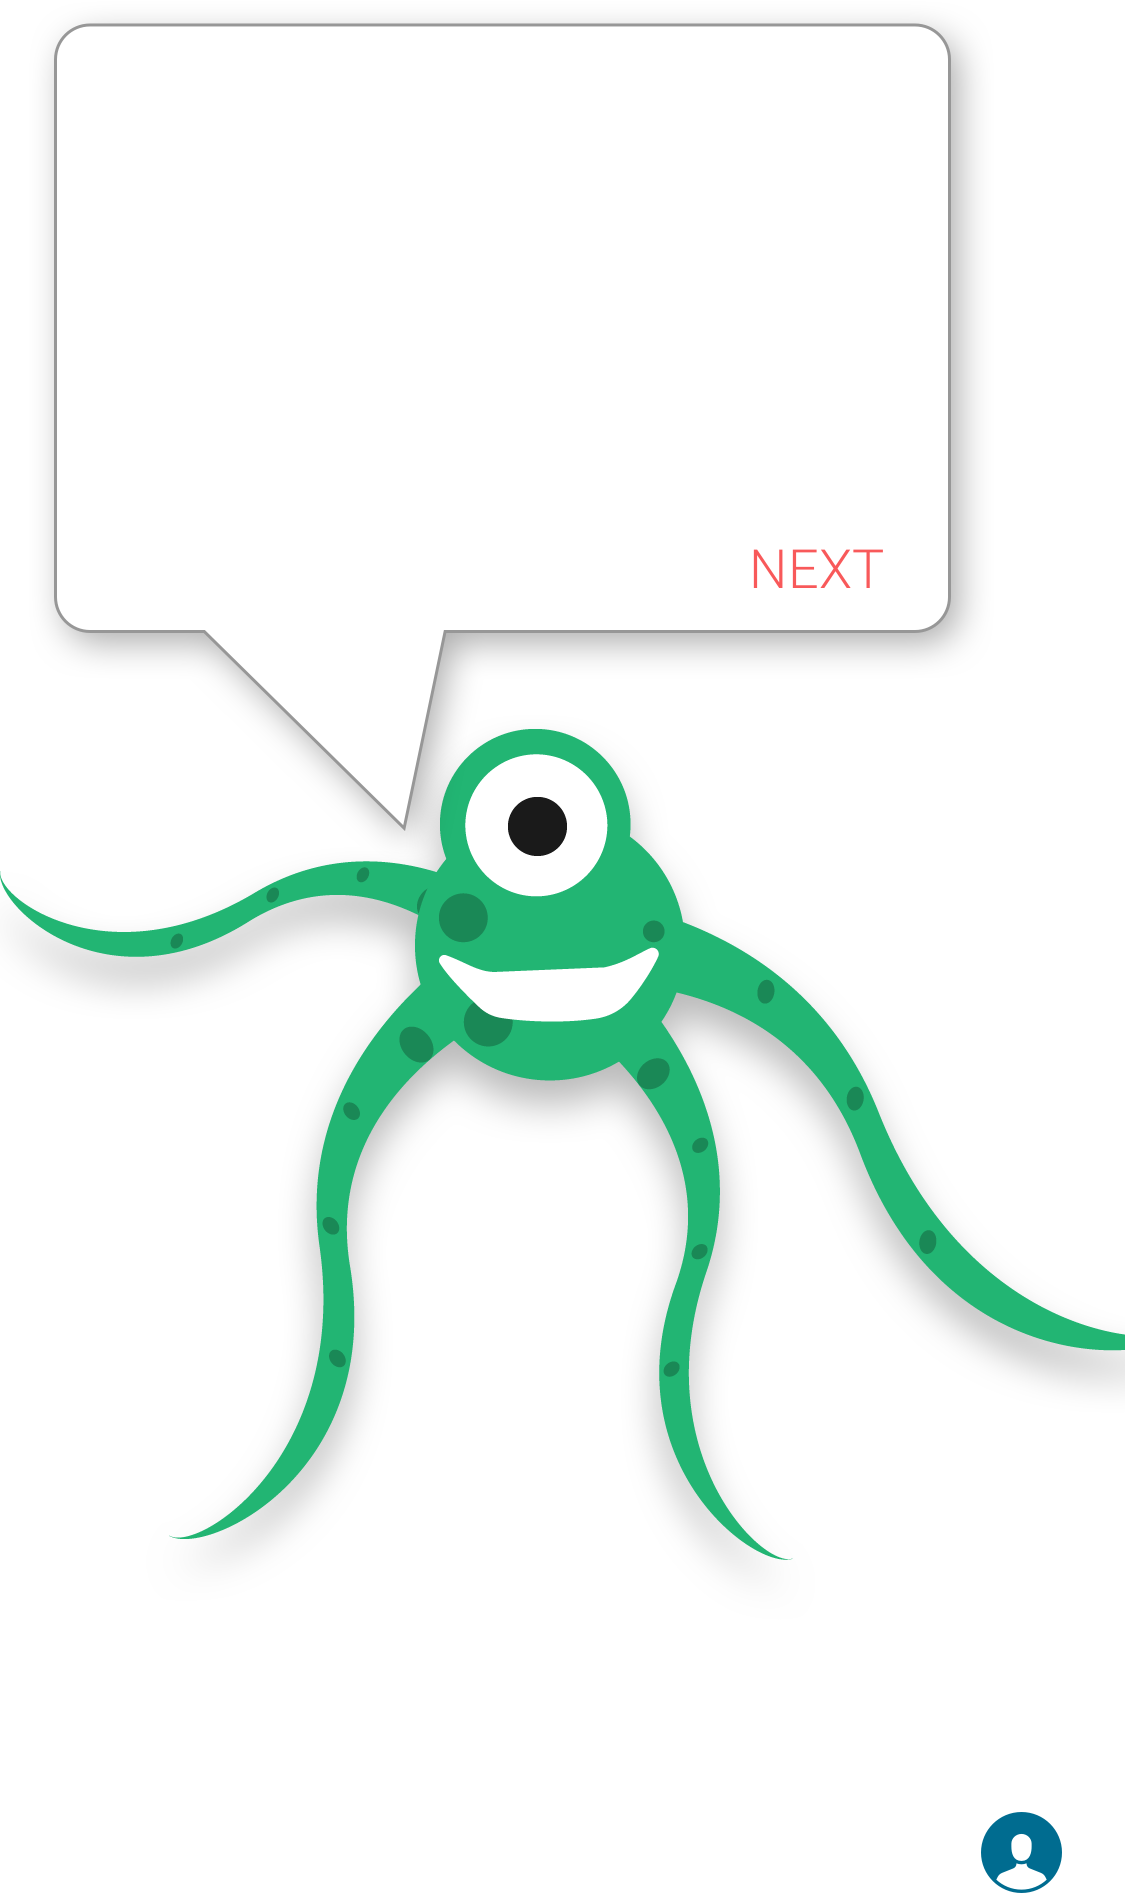
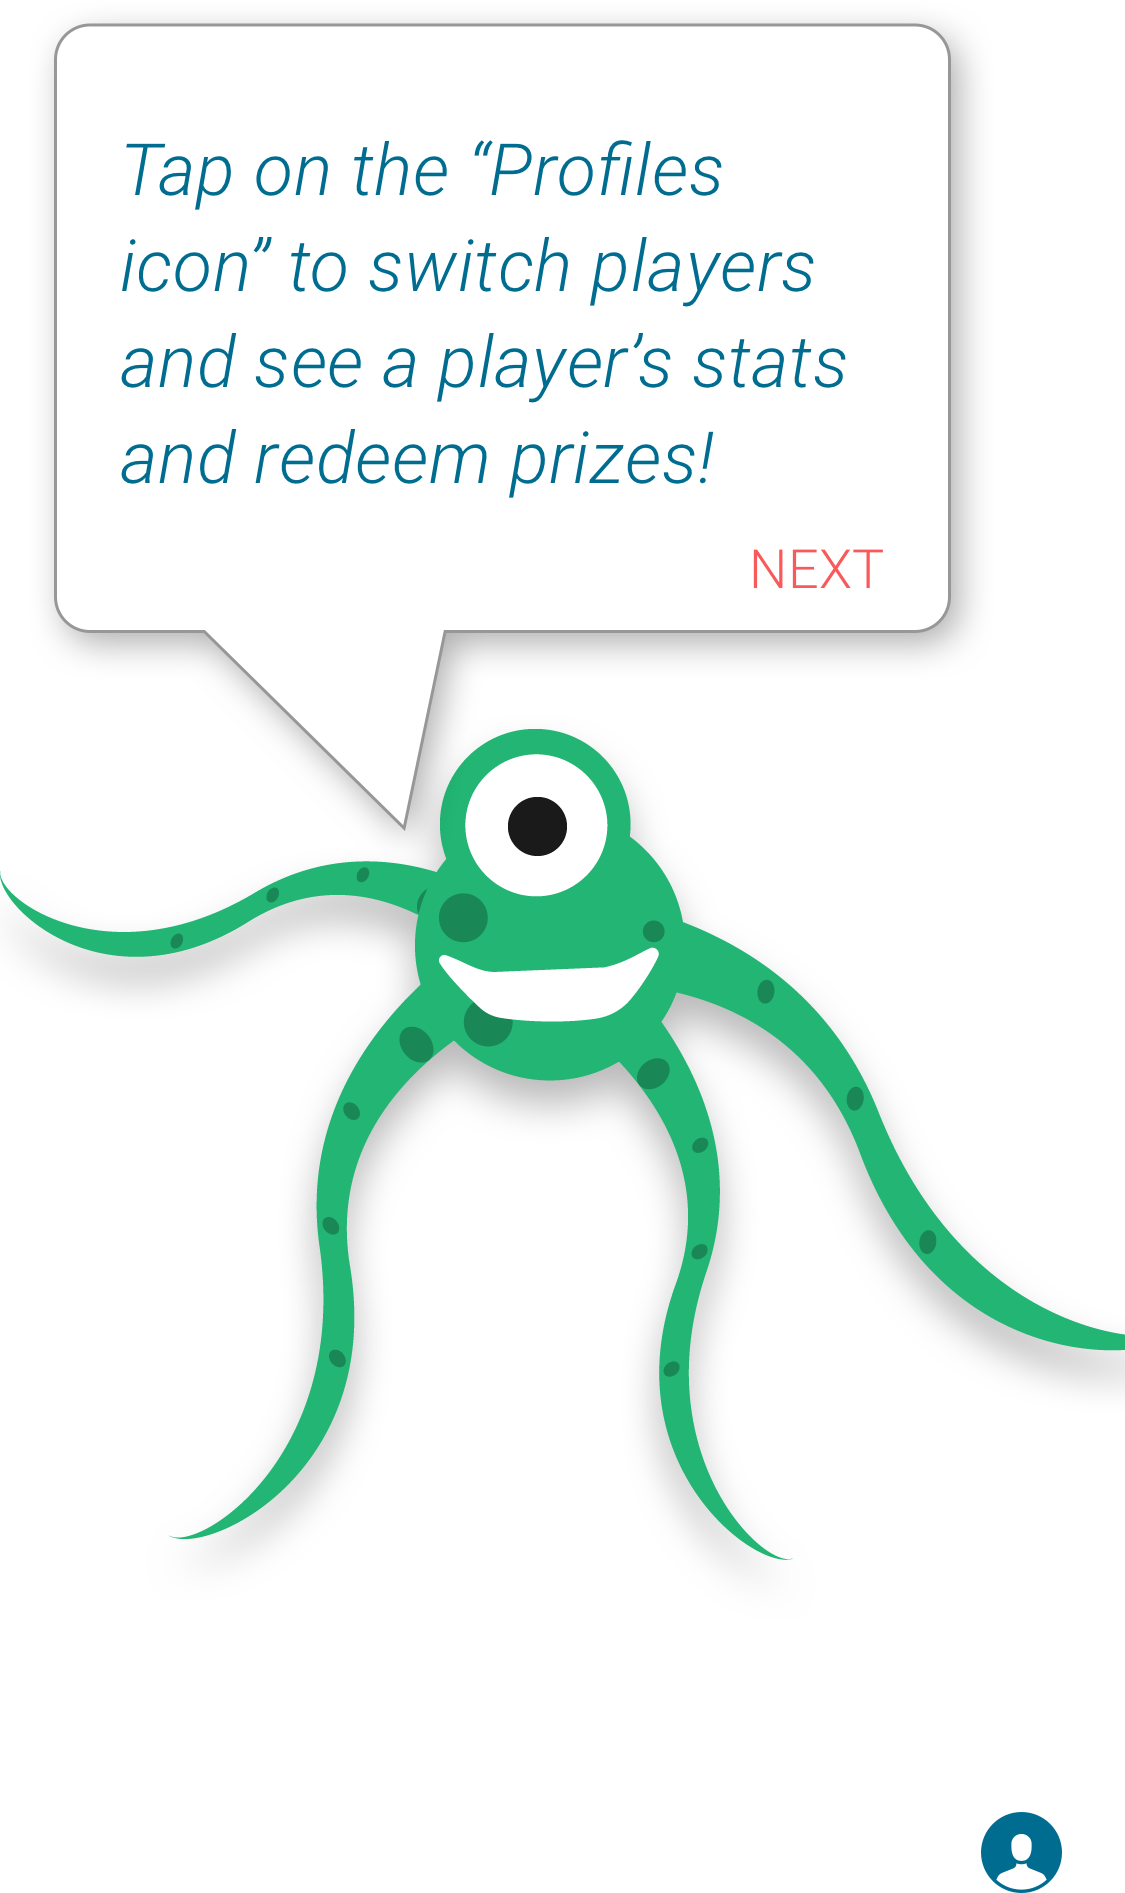
onboarding
onboarding

diff --git a/index.html b/index.html
@@ -221,5 +221,29 @@
 				<li class = "right"><img class = "link slideup" page-load = "profiles" src = "images/Profile.svg"></li>
 			</ul>
 		</div>
+		<div id = "player-onboard3" class = "sc">
+			<div class="onboard onthree">
+			<div class="link slideup nextthree" page-load="player-onboard4"></div>
+				<img src="images/onboard_3.png" alt="Green Monster onboarding">
+			</div>
+			<div class="overlay"></div>
+			<ul class = "navbar">
+				<li class = "left"><img src = "images/location.svg"></li>
+				<li class = "center"><img class = "link slideup" page-load = "adventure-list" src = "images/AAbtn.svg"></li>
+				<li class = "right"><img class = "link slideup" page-load = "profiles" src = "images/Profile.svg"></li>
+			</ul>
+		</div>
+		<div id = "player-onboard4" class = "sc">
+			<div class="onboard onfour">
+			<div class="link slideup nextfour" page-load="player-onboard4"></div>
+				<img src="images/onboard_4.png" alt="Green Monster onboarding">
+			</div>
+			<div class="overlay"></div>
+			<ul class = "navbar">
+				<li class = "left"><img src = "images/location.svg"></li>
+				<li class = "center"><img class = "link slideup" page-load = "adventure-list" src = "images/AAbtn.svg"></li>
+				<li class = "right"><img class = "link slideup" page-load = "profiles" src = "images/Profile.svg"></li>
+			</ul>
+		</div>
 	</body>
 </html>

diff --git a/style-card.css b/style-card.css
@@ -103,7 +103,7 @@ body{
 	background: linear-gradient(131.49deg, rgba(255,255,255,0.72) 0%, #FFFCF8 100%);
 }
 
-#player-onboard, #player-onboard2 {
+#player-onboard, #player-onboard2, #player-onboard3, #player-onboard4 {
 	bottom: 77px;
 	background-color: rgba(0,0,0,0.3);
 	-moz-animation: fadein 2s; /* Firefox */
@@ -250,7 +250,25 @@ h5 {
     z-index: 120;
 }
 
+.nextthree {
+    position: absolute;
+    height: 25px;
+    width: 55px;
+    border: 1px solid red;
+    right: 66px;
+    margin-top: 296px;
+    z-index: 120;
+}
 
+.nextfour {
+    position: absolute;
+    height: 25px;
+    width: 55px;
+    border: 1px solid red;
+    right: 66px;
+    margin-top: 264px;
+    z-index: 120;
+}
 .onboard img {
 	height: 507px;
 	margin-top: 120px;
@@ -295,11 +313,26 @@ h5 {
 .ontwo img {
     position: absolute;
     height: 577px;
-    margin-top: 171px;
+    margin-top: 167px;
     z-index: 115;
     left: 4px;
 }
 
+.onthree img {
+    position: absolute;
+    height: 616px;
+    margin-top: 123px;
+    z-index: 115;
+    left: 17px;
+}
+
+.onfour img {
+    position: absolute;
+    height: 616px;
+    margin-top: 127px;
+    z-index: 115;
+    left: -9px;
+}
 .cardtitle {
 	text-align: center;
 	margin-top: 10px;
